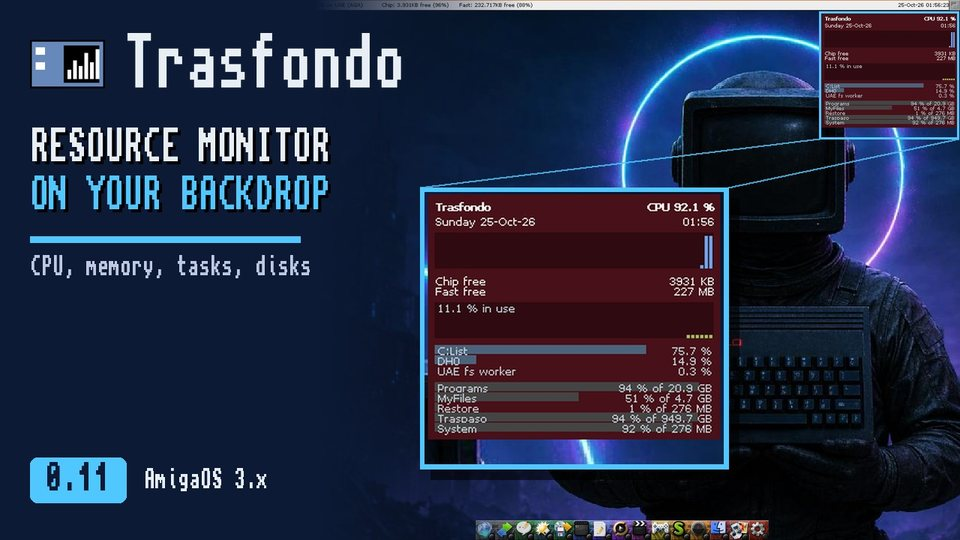
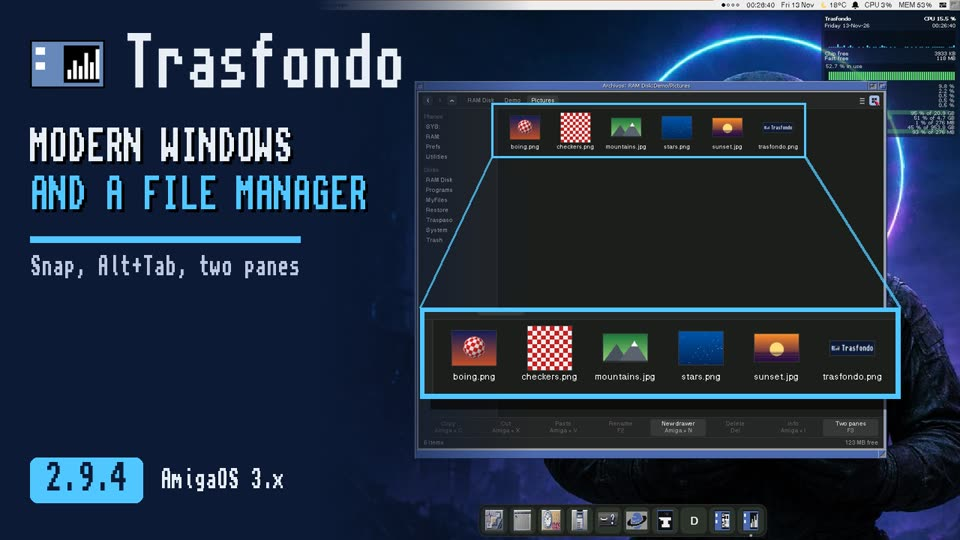
WIP Trasfondo: el vídeo de la 2.9 (portadas y textos); faltan los ID de YouTube en VIDEO

diff --git a/sitios/trasfondo/src/contenido.ts b/sitios/trasfondo/src/contenido.ts
@@ -162,7 +162,7 @@ export const CONTENIDO = {
         },
       ],
     },
-    video: { titulo: "Míralo en marcha", texto: "Cinco minutos de la 0.11, el monitor del fondo, en CoffinOS con tarjeta gráfica, en Amiberry. Se ve cómo se instala, todo lo que muestra, cómo se actualiza de la 0.9 a la 0.11 con un clic, TrasfondoPrefs y Exchange. La música es de Mantronix & Tip.", boton: "Reproducir", titulo_video: "Trasfondo 0.11: un monitor de recursos en el fondo del Workbench" },
+    video: { titulo: "Míralo en marcha", texto: "Cinco minutos de la 2.9 en CoffinOS (AmigaOS 3.2) con tarjeta gráfica, en Amiberry: las ventanas que encajan en los bordes, Alt+Tab, los escritorios virtuales, el explorador TrasfondoArchivos y las ventanas en tira como Niri. La música es \"Psilocybin\", de Legend & Yolk.", boton: "Reproducir", titulo_video: "Trasfondo 2.9: ventanas modernas, un explorador y escritorios virtuales para el Workbench" },
     instalar: {
       titulo: "Listo en un minuto",
       pasos: [
@@ -343,7 +343,7 @@ export const CONTENIDO = {
         },
       ],
     },
-    video: { titulo: "See it in action", texto: "Five minutes of 0.11, the backdrop monitor, on CoffinOS with a graphics card, in Amiberry. It shows how to install it, everything it displays, updating from 0.9 to 0.11 with one click, TrasfondoPrefs and Exchange. The music is by Mantronix & Tip.", boton: "Play", titulo_video: "Trasfondo 0.11: a resource monitor on your Workbench backdrop" },
+    video: { titulo: "See it in action", texto: "Five minutes of 2.9 on CoffinOS (AmigaOS 3.2) with a graphics card, in Amiberry: windows that snap to the edges, Alt+Tab, virtual desktops, the TrasfondoArchivos file manager and windows in a strip like Niri. The music is \"Psilocybin\" by Legend & Yolk.", boton: "Play", titulo_video: "Trasfondo 2.9: modern windows, a file manager and virtual desktops for the Workbench" },
     instalar: {
       titulo: "Ready in a minute",
       pasos: [
